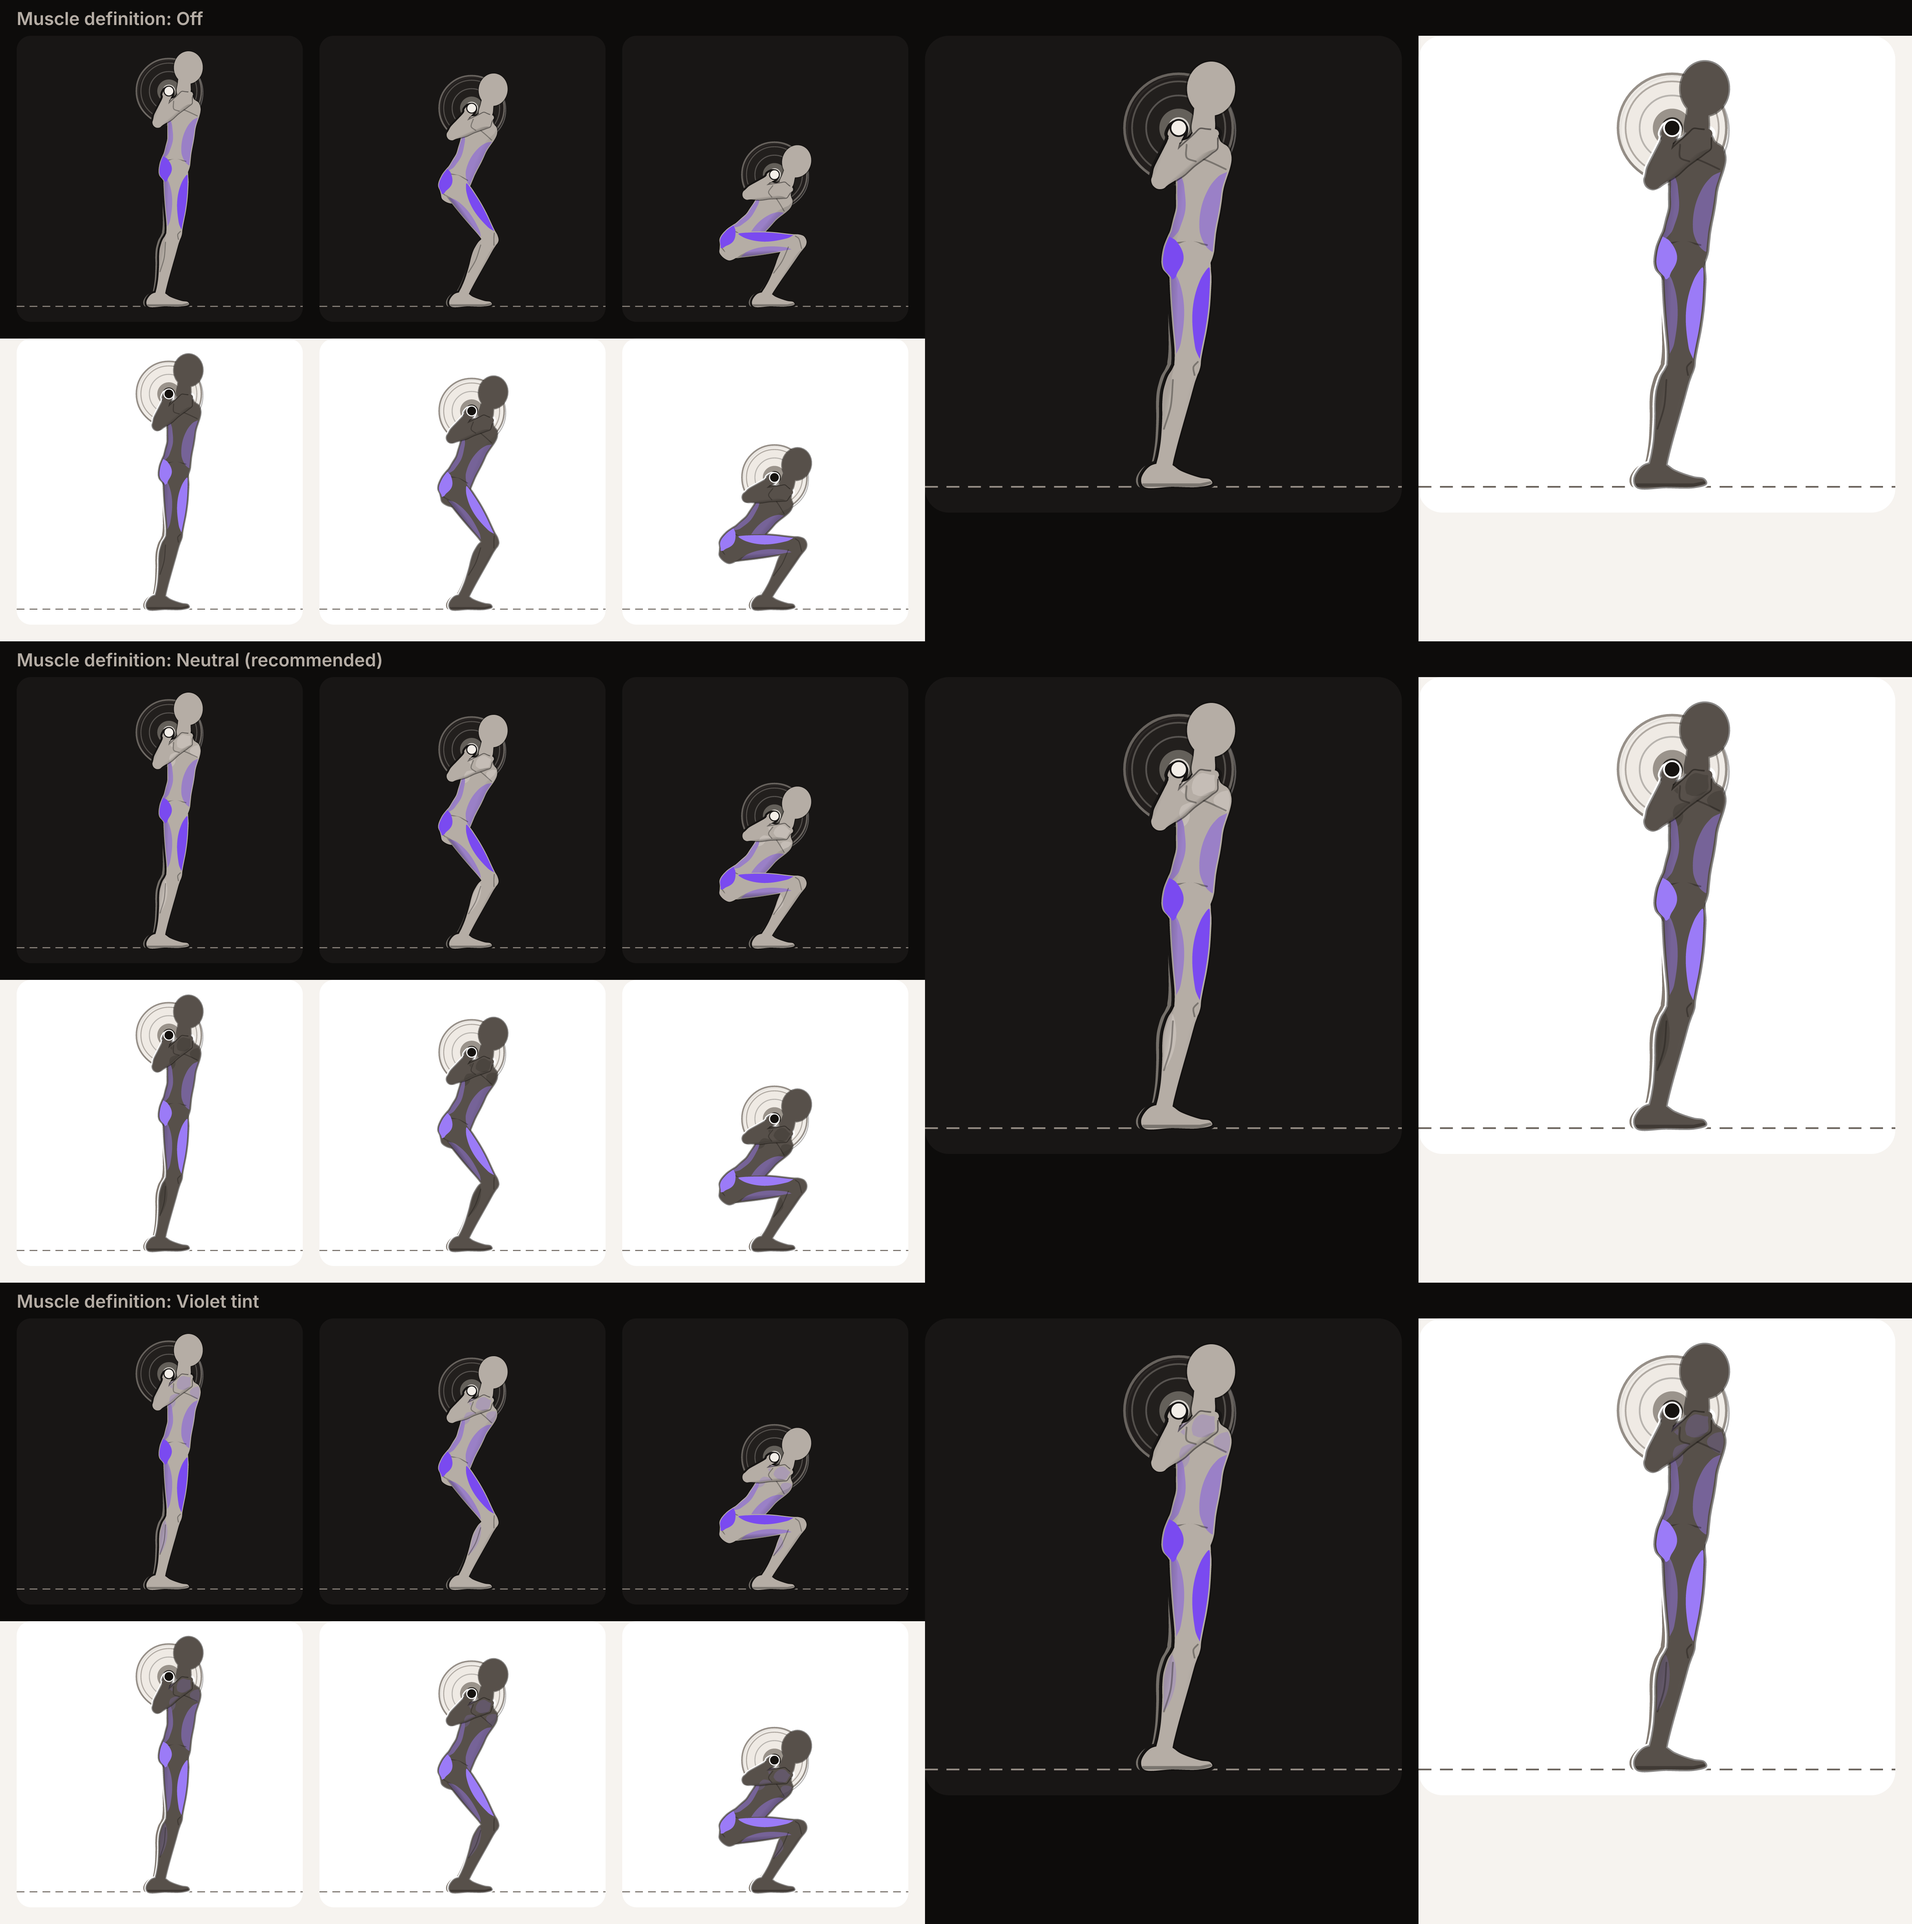
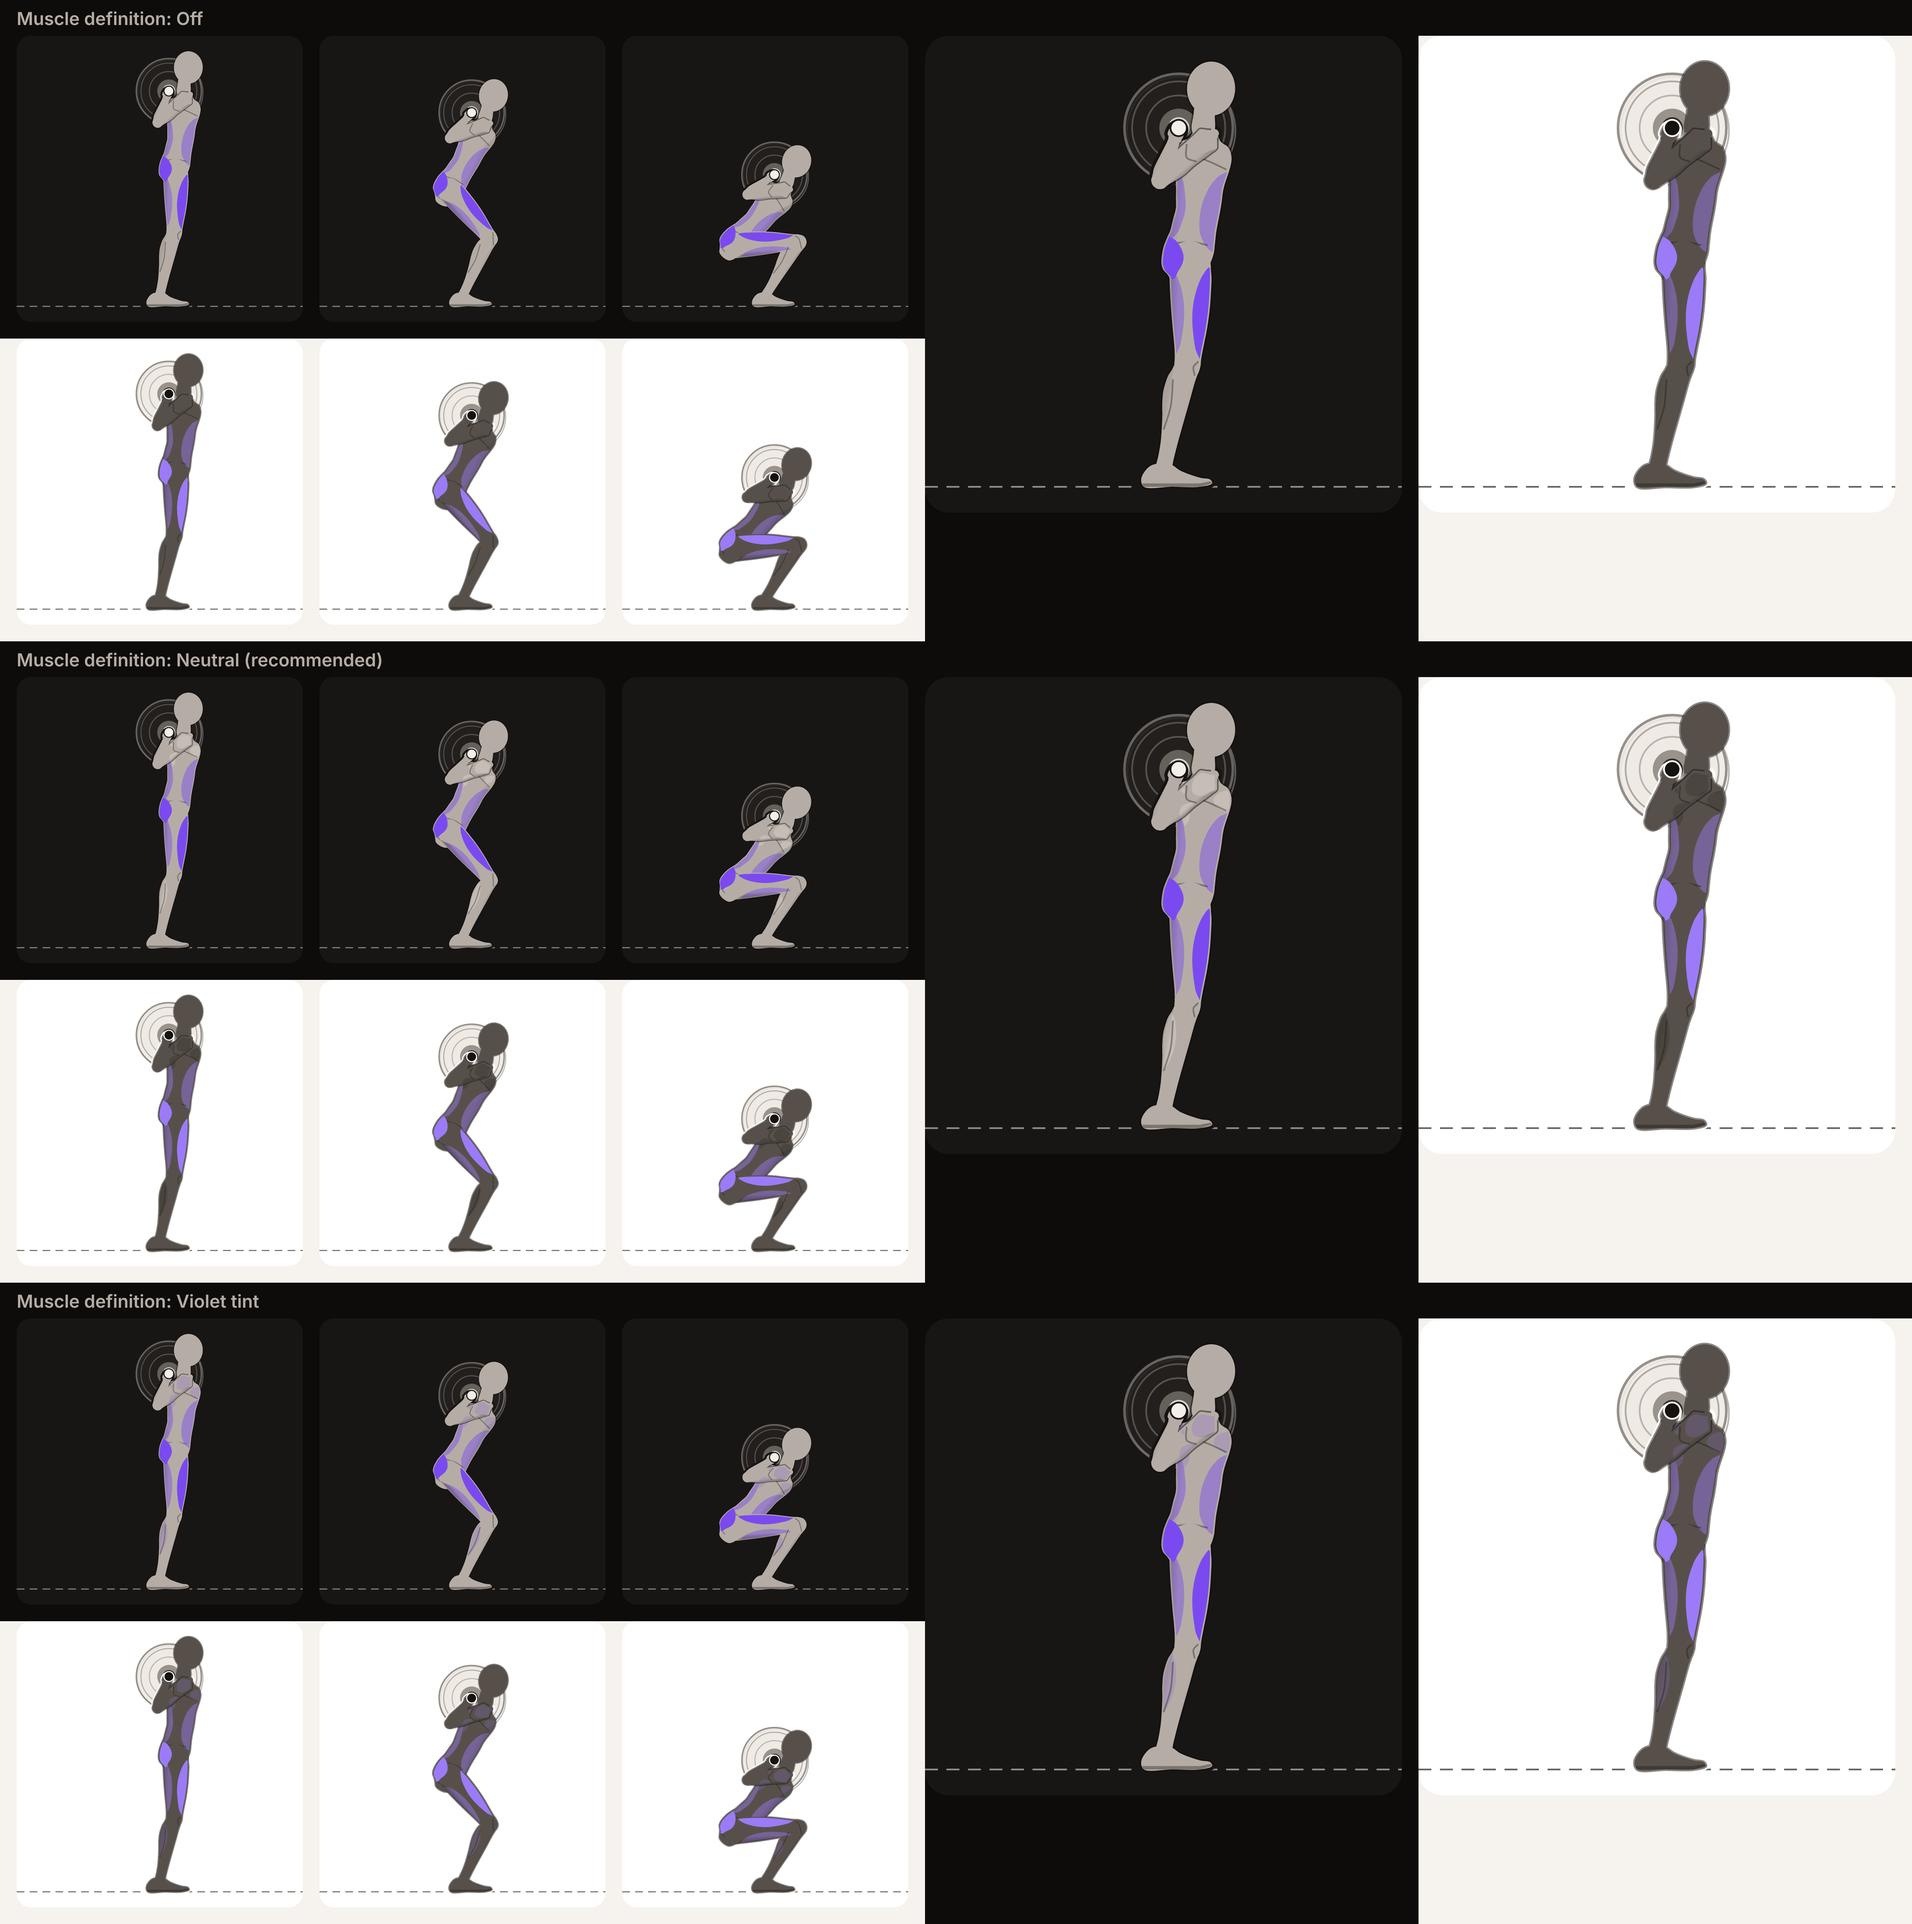
Squat guide: knees ease into lockout; three pass keys per phase (draft for Ben)
Ben's example. The top knees were near straight (far 5.1 degrees, reach
0.999) and the hip followed a Cartesian path into them, so the knees and
shins snapped straight in the last frames and whipped out of the top. Pass
keys are now solved (scratch authoring solver, plan §6.2, option B without
E6): at u 0.20 / 0.36 / 0.75 of each phase the near knee sits at a chosen
share of its travel and the bar stays on its line over mid-foot; the ascent
reuses them (sameAs) at its own times. Halfway keeps its label and caption
(knee 60 -> 65, trunk 23 -> 27 degrees; brief 60 / 25). The far foot moves
from 0.012 to 0.006 H behind the near one so the far knee isn't the straighter
one. Start and Bottom poses are unchanged.

guide:motion before -> after: M7v 4.68x -> 2.41x, M8 44.5% -> 23.5%, J5 3.67x
-> 1.56x, J4.w 26.1% -> 10.7%, J3 knee-ankle 260 ms / 29.6% -> 121 ms / 20.6%,
bar M3 31.3% -> 12.8%. Still FAIL on bar M3 and J3.t50: with a standing knee
the bar can't keep 30% of its peak speed at tau 0.2/0.8 unless the knees snap
(every solve found that trade; best snap-free bar M3 14%), so the bar now eases
in and out over longer. Left for Ben's phone review; the gate is not relaxed.
E6 (drive) is not used.

Tests: the Reduce Motion stop times and the D1 test (cut to the labelled keys)
follow the new keys. Previews re-rendered.

Claude-Session: https://claude.ai/code/session_01WQGwPu3Uq9qS169xjbbsDx

diff --git a/packages/catalogue/test/motion-drive.test.ts b/packages/catalogue/test/motion-drive.test.ts
@@ -52,6 +52,20 @@ function legGuide(topY: number, extra: Record<string, unknown> = {}, pass?: Reco
 
 /** The committed squat with `drive` turned on (data unchanged). */
 const drivenSquat = (): Guide => GuideSchema.parse({ ...rawOf('barbell-back-squat'), drive: DRIVE });
+
+type RawKey = { label?: string; sameAs?: number; root?: { y: number } };
+/** The committed squat cut down to its labelled keys (one pass key per phase), so each pass key can be put on its line. */
+function labelledSquat(): { keyframes: RawKey[] } {
+  const raw = structuredClone(rawOf('barbell-back-squat')) as { keyframes: RawKey[] };
+  const all = raw.keyframes;
+  const keep = all.map((_, i) => i).filter((i) => all[i]?.label !== undefined || all[all[i]?.sameAs ?? -1]?.label !== undefined);
+  raw.keyframes = keep.map((i) => {
+    const k: RawKey = { ...all[i] };
+    if (k.sameAs !== undefined) k.sameAs = keep.indexOf(k.sameAs);
+    return k;
+  });
+  return raw;
+}
 const config: MotionConfig = { main: [{ point: 'hip' }], primary: [], pairs: [] };
 
 describe('drive: schema', () => {
@@ -161,11 +175,11 @@ describe('drive: what it fixes and what it checks', () => {
   });
 
   it('D1: a pass key off its stop-to-stop driver line fails; the suggested root.y puts it on the line', () => {
-    const p = prepareGuide(drivenSquat());
+    const raw = labelledSquat();
+    const p = prepareGuide(GuideSchema.parse({ ...raw, drive: DRIVE }));
     const r = measureMotion(p, { n: 600 });
     expect(r.metrics.find((m) => m.id === 'D1')?.ok).toBe(false);
     expect(r.drive.length).toBe(2);
-    const raw = rawOf('barbell-back-squat') as { keyframes: { root?: { y: number } }[] };
     const key = r.drive[0];
     const y = key?.suggestedRootY;
     expect(typeof y).toBe('number');

diff --git a/packages/catalogue/test/playback.test.ts b/packages/catalogue/test/playback.test.ts
@@ -109,7 +109,7 @@ describe('key-frame stops (the Reduce Motion frames)', () => {
       [3, 'Bottom'],
     ]);
     expect(stops[2]?.caption).toBe('Hips just below knees, heels down');
-    expect(stops.map((s) => s.t)).toEqual([0, 0.1958, 0.5714]);
+    expect(stops.map((s) => s.t)).toEqual([0, 0.2424, 0.5714]);
   });
 
   it('match the catalogue entry key positions for every bundled guide', () => {
